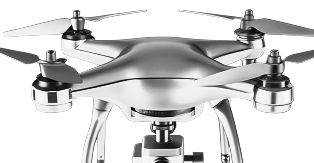
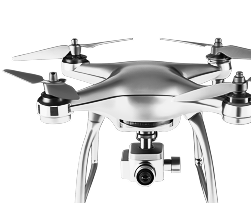
feat: change services page grid

diff --git a/src/pages/services/ServicesPage.scss b/src/pages/services/ServicesPage.scss
@@ -12,91 +12,64 @@
     flex: 1;
     min-height: 0;
     display: grid;
-    grid-template-columns: 2fr 1fr 2fr 1fr;
+    grid-template-columns: repeat(3, 1fr);
     grid-template-rows: repeat(3, 1fr);
     gap: clamp(8px, 0.8vw, 16px);
 
-    // 1. Музеи и выставки — col 1, rows 1–2
+    // 1. Музеи и выставки
     .services-page__card:nth-child(1) {
-      grid-column: 1;
-      grid-row: 1 / 3;
-
-      .services-page__card-img { height: 72%; bottom: -1%; right: -10%; }
-      .services-page__card-price { background-color: rgba(0, 0, 0, 0.45); }
+      .services-page__card-img { height: 77%; bottom: 0%; right: -1%; }
+      // .services-page__card-price { background-color: rgba(0, 0, 0, 0.45); }
     }
 
-    // 2. VR/AR — col 2, row 1
+    // 2. VR/AR
     .services-page__card:nth-child(2) {
-      grid-column: 2;
-      grid-row: 1;
-
-      .services-page__card-img { height: 71%; bottom: -3%; right: -8%; }
+      .services-page__card-img { height: 97%; bottom: -10%; right: 0%; }
       // .services-page__card-price { background-color: rgba(0, 0, 0, 0.45); }
     }
 
-    // 3. 3D-моделирование — col 3, row 1
+    // 3. 3D-моделирование
     .services-page__card:nth-child(3) {
-      grid-column: 3;
-      grid-row: 1;
-
-      .services-page__card-img { height: 72%; bottom: -8%; right: -0%; }
+      .services-page__card-img { height: 83%; bottom: 0%; right: 0%; }
       // .services-page__card-price { background-color: rgba(0, 0, 0, 0.45); }
     }
 
-    // 4. Frontend и Backend — col 4, row 1
+    // 4. Frontend и Backend
     .services-page__card:nth-child(4) {
-      grid-column: 4;
-      grid-row: 1;
-
-      .services-page__card-img { height: 50%; bottom: 0; right: 0%; max-width: 75%; }
-      .services-page__card-price { background-color: rgba(0, 0, 0, 0.45); }
+      .services-page__card-img { height: 53%; bottom: 0; right: 0%; max-width: 75%; }
+      // .services-page__card-price { background-color: rgba(0, 0, 0, 0.45); }
     }
 
-    // 5. Аренда сенсорного — col 1, row 3
+    // 5. Аренда сенсорного
     .services-page__card:nth-child(5) {
-      grid-column: 1;
-      grid-row: 3;
-
-      .services-page__card-img { height: 72%; bottom: -3%; right: 3%; }
+      .services-page__card-img { height: 80%; bottom: -1%; right: -1%; }
       // .services-page__card-price { background-color: rgba(0, 0, 0, 0.45); }
     }
 
-    // 6. Подбор оборудования — col 2, rows 2–3
+    // 6. Подбор оборудования
     .services-page__card:nth-child(6) {
-      grid-column: 2;
-      grid-row: 2 / 4;
-
-      .services-page__card-img { height: 72%; bottom: -8%; right: -3%; }
+      .services-page__card-img { height: 100%;  bottom: 0%; right: 7%; }
       // .services-page__card-price { background-color: rgba(0, 0, 0, 0.45); }
     }
 
-    // 7. Систем контроля — col 3, row 2
+    // 7. Систем контроля
     .services-page__card:nth-child(7) {
-      grid-column: 3;
-      grid-row: 2;
-
-      .services-page__card-img { height: 82%; bottom: -8%; right: 7%; }
+      .services-page__card-img { height: 93%; bottom: -1%; right: 5%; }
       // .services-page__card-price { background-color: rgba(0, 0, 0, 0.45); }
     }
 
-    // 8. Разработка сайтов — col 3, row 3
+    // 8. Разработка сайтов
     .services-page__card:nth-child(8) {
-      grid-column: 3;
-      grid-row: 3;
-
-      .services-page__card-img { height: 72%; bottom: -8%; right: 6%; }
+      .services-page__card-img { height: 75%; bottom: 10%; right: 3%; }
       // .services-page__card-price { background-color: rgba(0, 0, 0, 0.45); }
     }
 
-    // 9. Виртуальные 3D туры — col 4, rows 2–3
+    // 9. Виртуальные 3D туры
     .services-page__card:nth-child(9) {
-      grid-column: 4;
-      grid-row: 2 / 4;
-
       .services-page__card-img {
-        height: 47%;
+        height: 80%;
         top: 53%;
-        right: -5%;
+        right: 0%;
         bottom: unset;
         transform: translateY(-50%);
       }
@@ -144,6 +117,7 @@
     flex-direction: column;
     justify-content: space-between;
     height: 100%;
+    width: 58%;
     padding: clamp(16px, 1.5vw, 28px);
   }
 
@@ -154,7 +128,7 @@
   }
 
   &__card-title {
-    font-size: clamp(12px, 1vw, 18px);
+    font-size: clamp(14px, 1.1vw, 20px);
     font-weight: 700;
     color: #ffffff;
     text-transform: uppercase;
@@ -164,11 +138,12 @@
   }
 
   &__card-desc {
-    font-size: clamp(10px, 0.7vw, 13px);
+    font-size: clamp(11px, 0.75vw, 14px);
     font-weight: 400;
     color: rgba(255, 255, 255, 0.75);
     line-height: 1.4;
     margin: 0;
+    margin-top: 0.5rem;
   }
 
   &__card-price {
